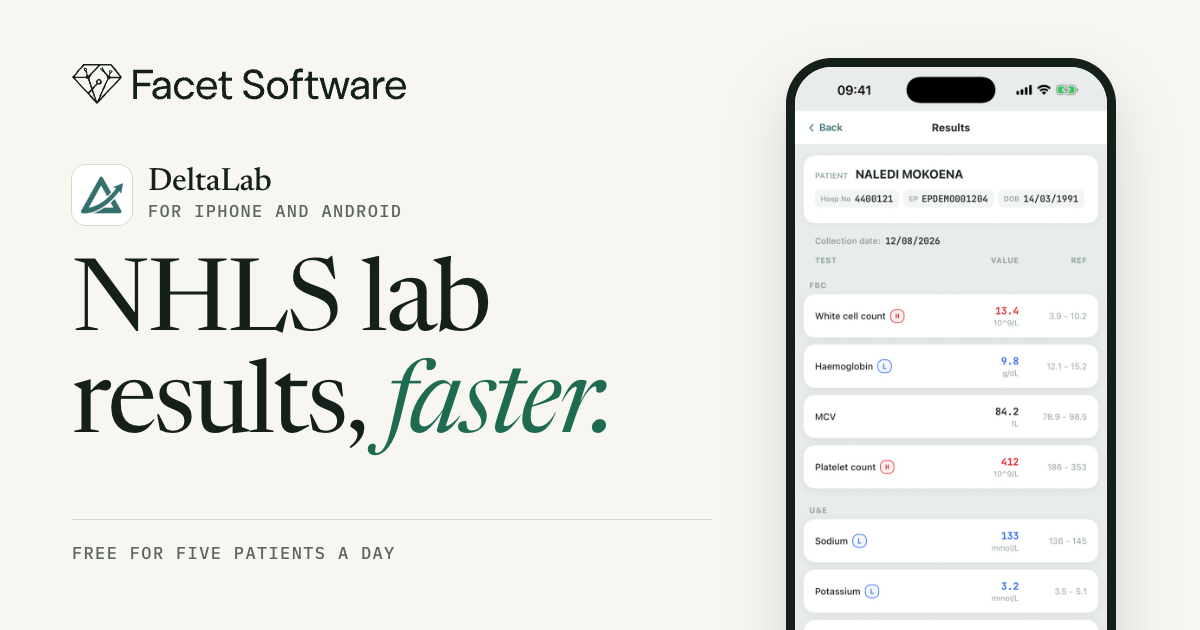
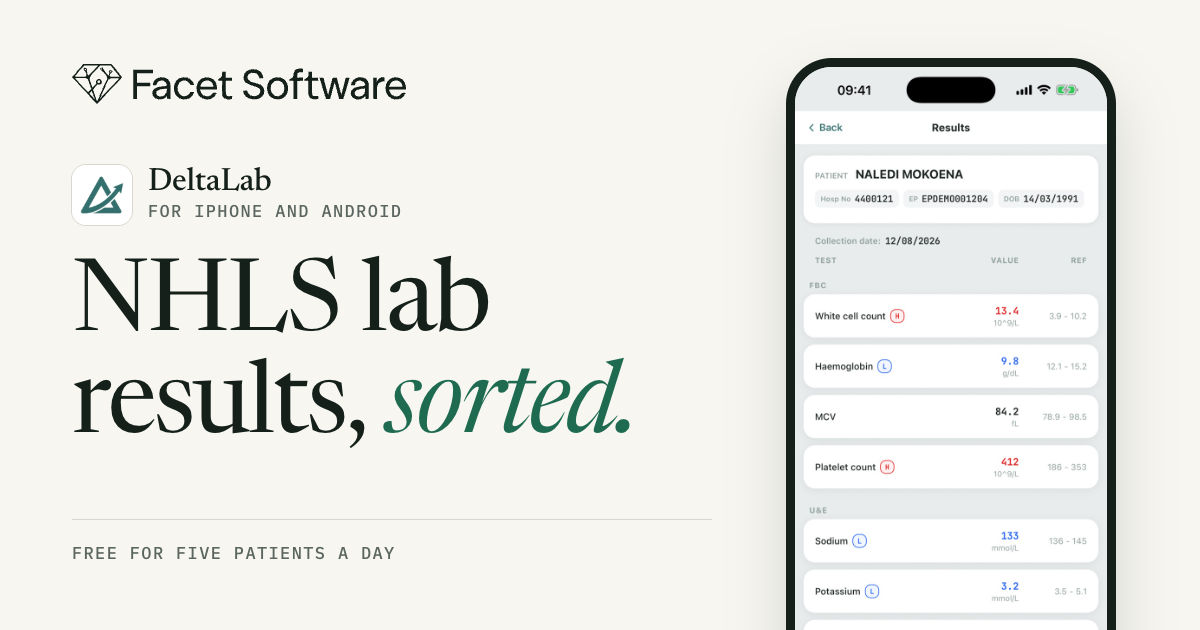
site: no speed claims for DeltaLab
"NHLS lab results, faster" becomes "NHLS lab results, sorted", matching the
App Store subtitle that replaced it on 2026-10-13, and the lede borrows the
approved promotional text ("Stop chasing bloods."). Drops "in seconds",
"instantly", "quickly" and "fast" from the product page, the link-preview
card and the home page, and tags DeltaLab "iPhone · Android" on the home
page.

Changed region(s): [[0.3083, 0.573, 0.5242, 0.7238]]

diff --git a/deltalab/index.html b/deltalab/index.html
@@ -4,16 +4,16 @@
   <meta charset="utf-8">
   <meta name="viewport" content="width=device-width, initial-scale=1">
   <title>DeltaLab — Facet Software</title>
-  <meta name="description" content="DeltaLab is a fast, native way for clinicians to read NHLS lab results on your phone, using the portal login they already have. Made by Facet Software.">
+  <meta name="description" content="DeltaLab is a native app for clinicians to read NHLS lab results on their phone, using the portal login they already have. Made by Facet Software.">
   <link rel="canonical" href="https://facetsoftware.co.za/deltalab/">
-  <meta property="og:title" content="DeltaLab — NHLS lab results, faster">
-  <meta property="og:description" content="Search, open and compare NHLS lab results in seconds, on your phone, using your own portal login.">
+  <meta property="og:title" content="DeltaLab — NHLS lab results, sorted">
+  <meta property="og:description" content="Stop chasing bloods. Scan or search a patient and see their flagged NHLS lab results on your phone, using your own portal login.">
   <meta property="og:url" content="https://facetsoftware.co.za/deltalab/">
   <meta property="og:type" content="website">
   <meta property="og:image" content="https://facetsoftware.co.za/img/og-deltalab.png">
   <meta property="og:image:width" content="1200">
   <meta property="og:image:height" content="630">
-  <meta property="og:image:alt" content="DeltaLab for iPhone and Android — NHLS lab results, faster. A results screen with high and low values flagged.">
+  <meta property="og:image:alt" content="DeltaLab for iPhone and Android — NHLS lab results, sorted. A results screen with high and low values flagged.">
   <meta property="og:site_name" content="Facet Software">
   <meta name="twitter:card" content="summary_large_image">
   <meta name="theme-color" content="#F7F6F1" media="(prefers-color-scheme: light)">
@@ -40,8 +40,8 @@
             <img src="/img/deltalab-icon.png" width="52" height="52" alt="">
             <div><strong>DeltaLab</strong><span class="mono">For iPhone and Android</span></div>
           </div>
-          <h1>NHLS lab results, <em>faster.</em></h1>
-          <p class="lede">A fast, native way to read NHLS lab results on your phone. Sign in with the TrakCare portal login you already have, find your patient, and see what came back in seconds.</p>
+          <h1>NHLS lab results, <em>sorted.</em></h1>
+          <p class="lede">Stop chasing bloods. DeltaLab is a native app for reading NHLS lab results on your phone. Sign in with the TrakCare portal login you already have, find your patient, and see what came back.</p>
           <span class="mono status">Free for five patients a day</span>
           <div class="get-app">
             <a class="store-button" href="https://play.google.com/store/apps/details?id=com.labloupe.app">Get it on Google Play</a>
@@ -67,7 +67,7 @@
             <li>See recent results for tests you requested, without searching</li>
             <li>Open and share the official lab report PDF</li>
             <li>Generate a ward-round handover sheet from a patient’s results</li>
-            <li>Reopen recently viewed patients instantly, straight from your device</li>
+            <li>Reopen recently viewed patients straight from your device</li>
             <li>Light and dark themes, for day rounds and night shifts</li>
           </ul>
         </div>
@@ -102,7 +102,7 @@
           <h2 id="privacy-h">Your data stays on your phone.</h2>
           <p class="big">Patient results travel between your device and the NHLS and nowhere else — we never see them, and we could not retrieve them if we wanted to.</p>
           <p>Your NHLS credentials are held in your phone's secure storage and sent only to the NHLS. There are no analytics, no tracking, no advertising and no crash-reporting SDKs in the app.</p>
-          <p>Results you have viewed are cached on your device so you can reopen them quickly, and you can clear that cache at any time from the Recent tab or from Settings. Because it holds patient information, protect your phone with a passcode or biometrics, as you would any device you use to view patient records.</p>
+          <p>Results you have viewed are cached on your device so you can reopen them, and you can clear that cache at any time from the Recent tab or from Settings. Because it holds patient information, protect your phone with a passcode or biometrics, as you would any device you use to view patient records.</p>
           <div class="textlinks">
             <a class="arrow" href="/deltalab/privacy/">Privacy policy</a>
             <a class="arrow" href="/deltalab/terms/">Terms of use</a>

diff --git a/index.html b/index.html
@@ -41,15 +41,15 @@
         <h1>Clinical software that respects <em>a doctor’s time.</em></h1>
         <div class="hero-foot">
           <div class="mono">Johannesburg<br>Est. 2026</div>
-          <p class="lede">Facet Software is a South African company building fast, careful tools for clinicians working in public hospitals. It is run by a practising medical doctor.</p>
+          <p class="lede">Facet Software is a South African company building careful tools for clinicians working in public hospitals. It is run by a practising medical doctor.</p>
         </div>
       </div>
 
       <section class="row" id="work" aria-labelledby="work-h">
         <div class="mono">01 — Our work</div>
         <div class="prose">
-          <h2 id="work-h"><a href="/deltalab/" style="text-decoration: none">DeltaLab</a><sup>iPhone</sup></h2>
-          <p class="big">A native viewer for laboratory results held in the National Health Laboratory Service (NHLS) lab portal. Clinicians sign in with the NHLS credentials they already hold, find a patient by name, and read results in seconds.</p>
+          <h2 id="work-h"><a href="/deltalab/" style="text-decoration: none">DeltaLab</a><sup>iPhone · Android</sup></h2>
+          <p class="big">A native viewer for laboratory results held in the National Health Laboratory Service (NHLS) lab portal. Clinicians sign in with the NHLS credentials they already hold, find a patient by name, and read their results.</p>
           <p class="small">DeltaLab is an independent product. It is not affiliated with or endorsed by the NHLS, and it is a viewer for laboratory data, not a diagnostic device.</p>
           <div class="textlinks">
             <a class="arrow" href="/deltalab/">About DeltaLab</a>

diff --git a/deltalab/privacy/index.html b/deltalab/privacy/index.html
@@ -14,7 +14,7 @@
   <meta property="og:image" content="https://facetsoftware.co.za/img/og-deltalab.png">
   <meta property="og:image:width" content="1200">
   <meta property="og:image:height" content="630">
-  <meta property="og:image:alt" content="DeltaLab for iPhone — NHLS lab results, faster. A results screen with high and low values flagged.">
+  <meta property="og:image:alt" content="DeltaLab for iPhone and Android — NHLS lab results, sorted. A results screen with high and low values flagged.">
   <meta property="og:site_name" content="Facet Software">
   <meta name="twitter:card" content="summary_large_image">
   <meta name="theme-color" content="#F7F6F1" media="(prefers-color-scheme: light)">

diff --git a/deltalab/support/index.html b/deltalab/support/index.html
@@ -14,7 +14,7 @@
   <meta property="og:image" content="https://facetsoftware.co.za/img/og-deltalab.png">
   <meta property="og:image:width" content="1200">
   <meta property="og:image:height" content="630">
-  <meta property="og:image:alt" content="DeltaLab for iPhone — NHLS lab results, faster. A results screen with high and low values flagged.">
+  <meta property="og:image:alt" content="DeltaLab for iPhone and Android — NHLS lab results, sorted. A results screen with high and low values flagged.">
   <meta property="og:site_name" content="Facet Software">
   <meta name="twitter:card" content="summary_large_image">
   <meta name="theme-color" content="#F7F6F1" media="(prefers-color-scheme: light)">

diff --git a/deltalab/terms/index.html b/deltalab/terms/index.html
@@ -14,7 +14,7 @@
   <meta property="og:image" content="https://facetsoftware.co.za/img/og-deltalab.png">
   <meta property="og:image:width" content="1200">
   <meta property="og:image:height" content="630">
-  <meta property="og:image:alt" content="DeltaLab for iPhone — NHLS lab results, faster. A results screen with high and low values flagged.">
+  <meta property="og:image:alt" content="DeltaLab for iPhone and Android — NHLS lab results, sorted. A results screen with high and low values flagged.">
   <meta property="og:site_name" content="Facet Software">
   <meta name="twitter:card" content="summary_large_image">
   <meta name="theme-color" content="#F7F6F1" media="(prefers-color-scheme: light)">

diff --git a/scripts/og/deltalab.html b/scripts/og/deltalab.html
@@ -14,7 +14,7 @@
     <img class="logo" src="../../img/facet-logo.svg" alt="">
     <div class="left">
       <div class="app"><img src="../../img/deltalab-icon.png" alt=""><div><strong>DeltaLab</strong><span class="mono">For iPhone and Android</span></div></div>
-      <h1>NHLS lab results, <em>faster.</em></h1>
+      <h1>NHLS lab results, <em>sorted.</em></h1>
     </div>
     <div class="foot"><span class="mono">Free for five patients a day</span></div>
   </div>
